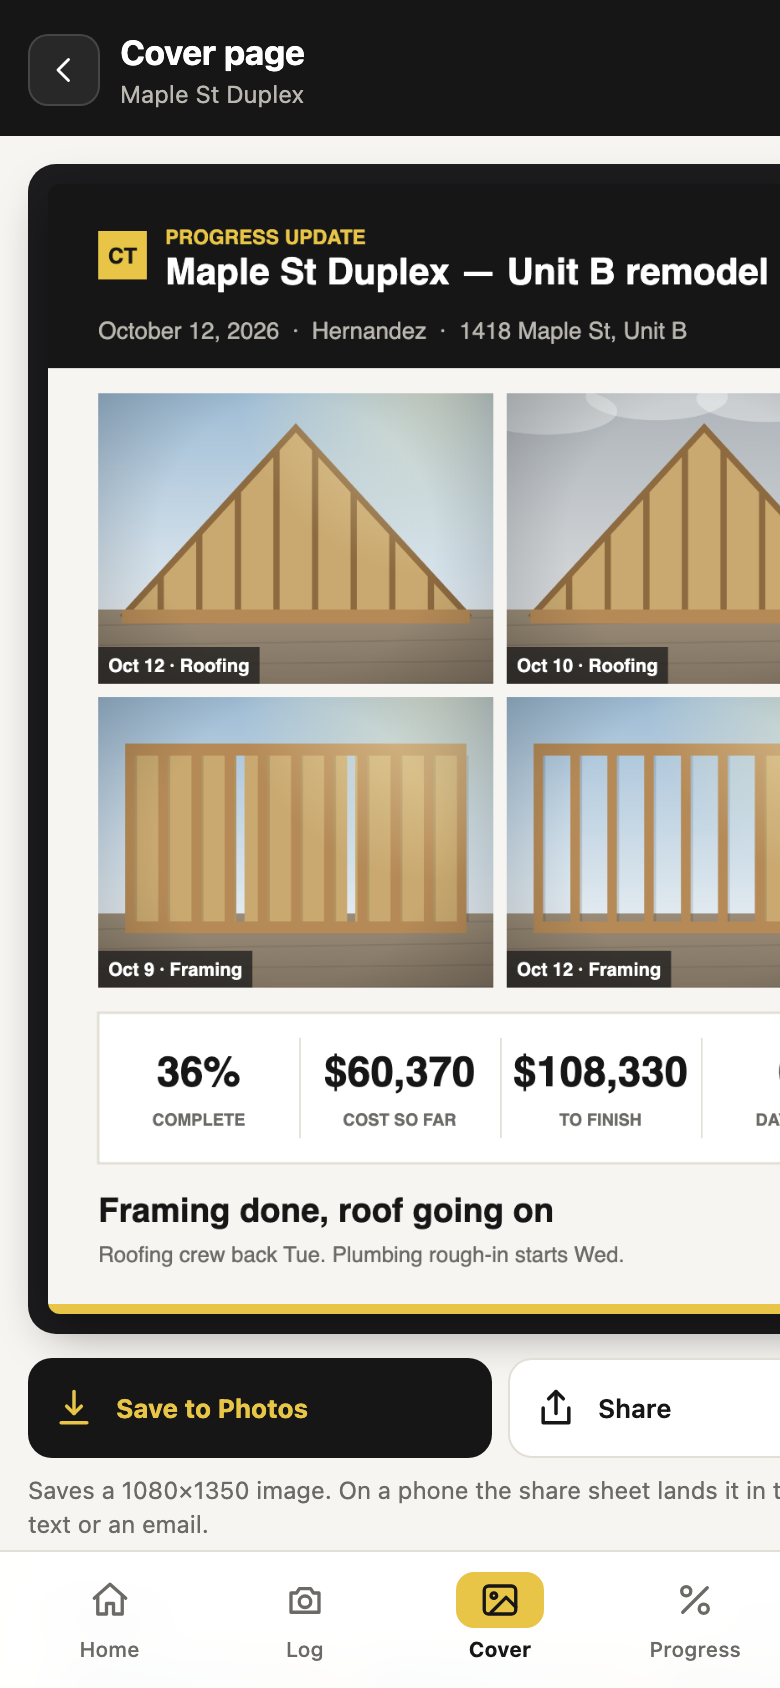
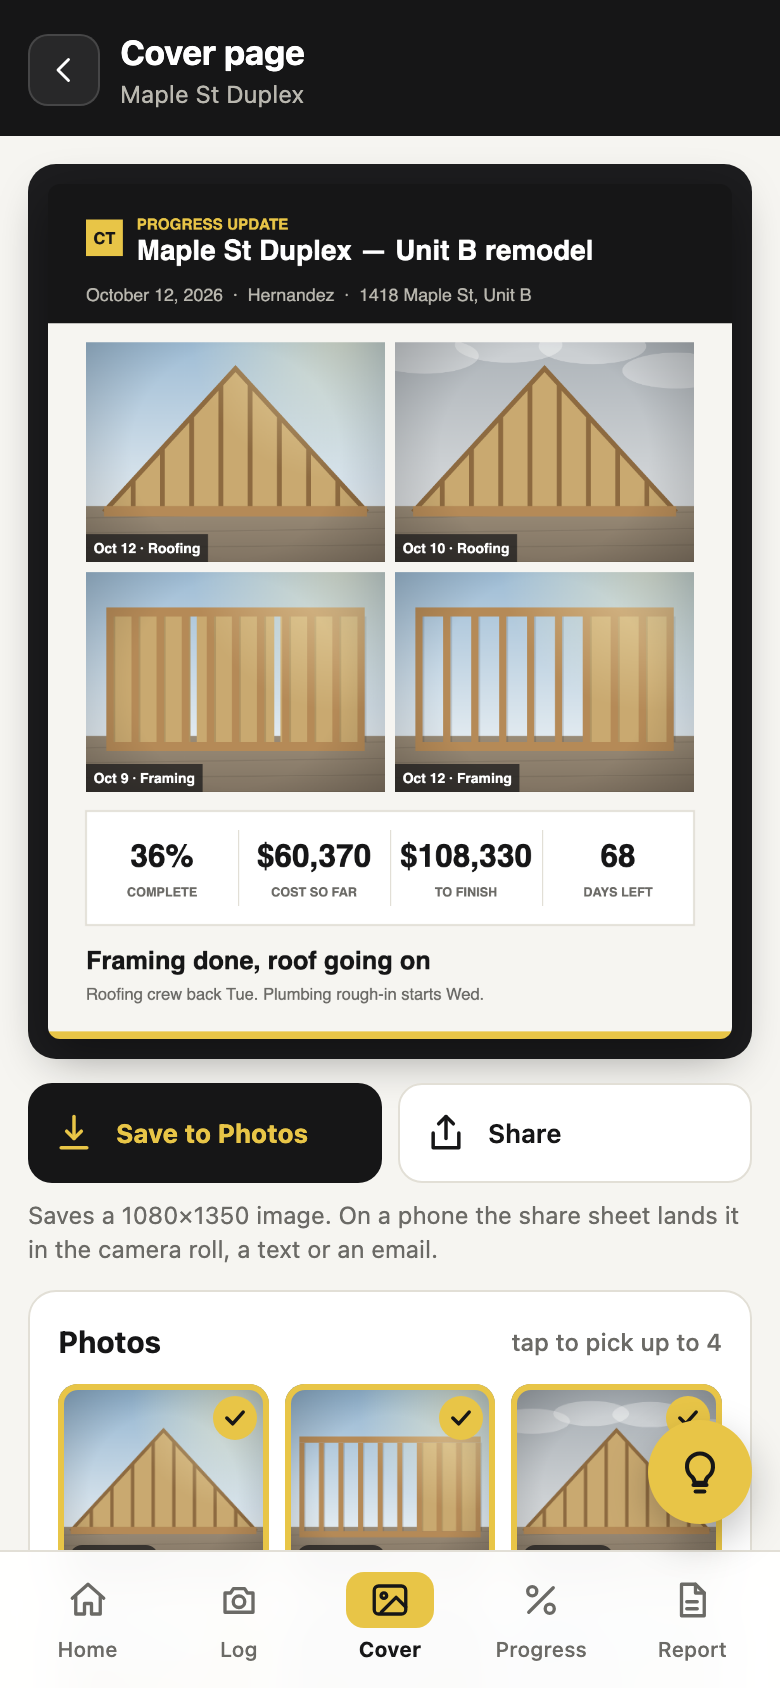
Storyboard: capture screens at a fixed 390x844 so nothing clips
Headless Chrome on macOS ignores small window sizes, so the page laid out
wider than the capture. A ?shot=1 mode pins the app to 390x844 for the
screenshot run. Recaptures all fifteen screens; caption count fixed.

diff --git a/index.html b/index.html
@@ -4,6 +4,7 @@
 <meta name="description" content="CostTooling prototype: site photos, cover pages, schedule of values, Gantt and a one-page progress report, from one project record.">
 <meta name="theme-color" content="#161617">
 <meta name="apple-mobile-web-app-capable" content="yes"><meta name="apple-mobile-web-app-status-bar-style" content="black"><meta name="apple-mobile-web-app-title" content="CostTooling">
+<script>if (new URLSearchParams(location.search).get("shot")) document.documentElement.classList.add("shot");</script>
 <link rel="manifest" href="manifest.webmanifest"><link rel="apple-touch-icon" href="icons/apple-touch-icon.png"><link rel="icon" href="icons/icon.svg" type="image/svg+xml">
 <style>
   :root { --ink:#161617; --ink2:#2b2b2e; --yellow:#e8c547; --paper:#f6f5f1; --card:#fff; --line:#e2dfd6; --muted:#6b6a66; --blue:#003366; --green:#2f7d4f; --red:#b3261e; --amber:#b7791f; --r:14px; }
@@ -21,6 +22,10 @@
   .notes p { margin:0 0 10px; max-width:70ch; }
   .callout { background:#fff; border:1px solid var(--line); border-radius:12px; padding:14px 16px; margin-top:12px; }
   .notes .sb { display:inline-block; margin-top:14px; background:var(--ink); color:var(--yellow); padding:8px 14px; border-radius:8px; text-decoration:none; font-weight:600; font-size:13px; }
+  html.shot, html.shot body { width:390px; height:844px; overflow:hidden; background:var(--paper); }
+  html.shot .shell { display:block; padding:0; max-width:none; margin:0; }
+  html.shot .phone { width:390px; height:844px; border:0; border-radius:0; box-shadow:none; }
+  html.shot .notes { display:none; }
   @media (max-width:860px) { body { background:var(--paper); } .shell { display:block; padding:0; max-width:none; } .phone { width:100%; height:100dvh; border:0; border-radius:0; box-shadow:none; } .notes { display:none; } }
   /* ---------- app chrome ---------- */
   .app { position:absolute; inset:0; display:flex; flex-direction:column; }

diff --git a/mockups/index.html b/mockups/index.html
@@ -15,7 +15,7 @@
 </style></head>
 <body><div class="page">
   <h1>CostTooling — every screen</h1>
-  <p class="lede">Thirteen states of the prototype, captured at phone size. Click one to open that screen in the live prototype.</p>
+  <p class="lede">Fifteen states of the prototype, captured at phone size. Click one to open that screen in the live prototype.</p>
   <a class="back" href="../">← Open the prototype</a>
   <div class="grid">
     <figure><a href="../?s=projects"><img src="screens/01-projects.png" alt="Projects list"></a><figcaption><b>Projects</b><span>Each job with percent complete, cost to finish and days left.</span></figcaption></figure>
